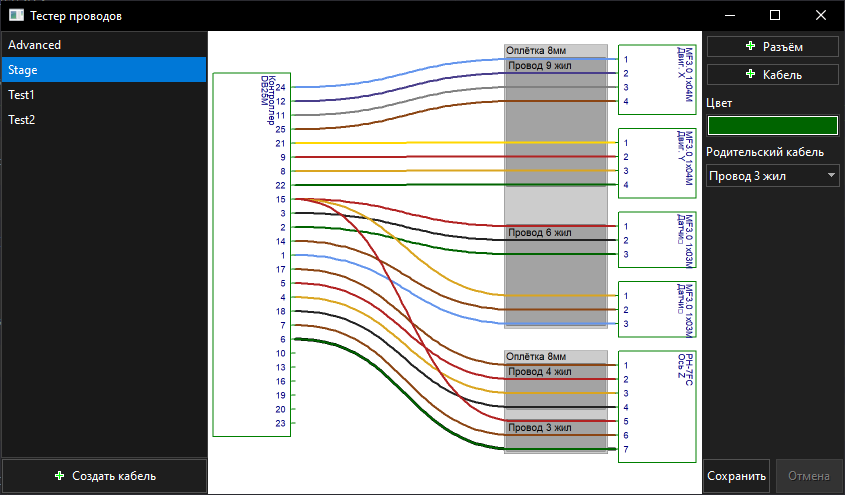
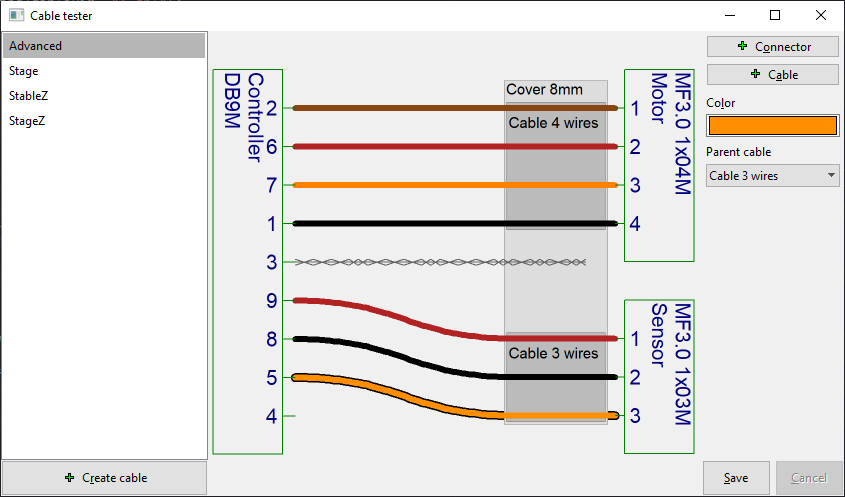
Fixed colors on Dark theme. Fixed focus of Viewer control. Add new preview for Readme.

diff --git a/CableTesterDesktop/Viewer.hpp b/CableTesterDesktop/Viewer.hpp
@@ -94,13 +94,13 @@ public:
 			if ((cbl = dynamic_cast<Cable*>(node))) {
 				Rect r = cbl->GetCableRect();
 				r.Inflate(5);
-				dImg->DrawRect(r, Black);
+				dImg->DrawRect(r, SBlack);
 			} else if ((con = dynamic_cast<Connector*>(node))) {
 				Size sz = con->PinSize();
 				Point p = con->Position();
-				dImg->DrawRect(p.x - 5, p.y - 5, sz.cx + 10, sz.cy * (con->GetPinCount()+1) + 10, LtGray);
+				dImg->DrawRect(p.x - 5, p.y - 5, sz.cx + 10, sz.cy * (con->GetPinCount()+1) + 10, SLtGray);
 			} else if ((w = dynamic_cast<Wire*>(node))) {
-				w->Draw(*dImg, dSize, (int)round(Wire::pen * 1.5), Black);
+				w->Draw(*dImg, dSize, (int)round(Wire::pen * 1.5), SBlack);
 			}
 		}
 	}
@@ -110,7 +110,7 @@ public:
 		Size sz = GetSize();
 		dSize = {sz.cx * 2, sz.cy * 2};
 		dImg = new ImageDraw(dSize);
-		dImg->DrawRect(dSize, White);
+		dImg->DrawRect(dSize, SColorFace);
 		ImageDraw objID(dSize);
 		if (cable != NULL) {
 			cable->CalculateConnectorsPosition(dSize);
@@ -152,6 +152,7 @@ public:
 	
 	virtual void LeftDown(Point p, dword keyflags) {
 		if (cable == NULL) return;
+		SetFocus();
 		Connector* cr;
 		bool whenSel = false;
 		if (!(keyflags & K_CTRL) && sels.GetCount()) {
@@ -204,7 +205,6 @@ public:
 							ViewerSelector::Add(createWire);
 							sels.Add(createWire);
 							createWire = NULL;
-							WhenSelect();
 						}
 					}
 				} else if ((c = dynamic_cast<Cable*>(obj))) {
@@ -212,14 +212,16 @@ public:
 					ViewerSelector::Add(createWire);
 					sels.Add(createWire);
 					createWire = NULL;
-					WhenSelect();
 				}
 			}
 			if (createWire) {
 				delete createWire;
 				createWire = NULL;
+				DrawCable();
+			} else {
+				DrawCable();
+				WhenSelect();
 			}
-			DrawCable();
 		}
 	}
 	

diff --git a/CableTesterDesktop/main.cpp b/CableTesterDesktop/main.cpp
@@ -2,6 +2,9 @@
 
 CableTester::CableTester() {
 	cableDir = GetExeDirFile("Cables");
+	//SetDarkThemeEnabled(!IsDarkThemeEnabled());
+	Connector::borderColor = SGreen;
+	Connector::textColor = SBlue;
 	CtrlLayout(*this, t_("Cable tester"));
 	Sizeable().Zoomable();
 	
@@ -23,7 +26,6 @@ CableTester::CableTester() {
 	};
 	
 	bCancel.Disable();
-	//bSave.Disable();
 	bSave.WhenPush = [=] {
 		if (currentCable != NULL) {
 			String fileName = cableDir + "/" + list.GetValue(list.GetCursor()).ToString().Mid(2);
@@ -126,5 +128,6 @@ GUI_APP_MAIN {
 	int lang = GetSystemLNG();
 	lang = SetLNGCharset(lang, CHARSET_UTF8);
 	SetLanguage(lang);
+	//SetLanguage(LNG_('E', 'N', 'U', 'S'));
 	CableTester().Run();
 }

diff --git a/CableTesterDesktop/Connector.hpp b/CableTesterDesktop/Connector.hpp
@@ -15,12 +15,13 @@ private:
 	Size pinSize = {50, 15};
 	bool isLeft;
 	String name;
-	static int borderWidth;
-	static Color borderColor;
-	static Color textColor;
 	uint32_t id;
 
 public:
+	static Color borderColor;
+	static Color textColor;
+	static int borderWidth;
+	
 	Vector<int> pins;
 	static Font textFont;
 	
